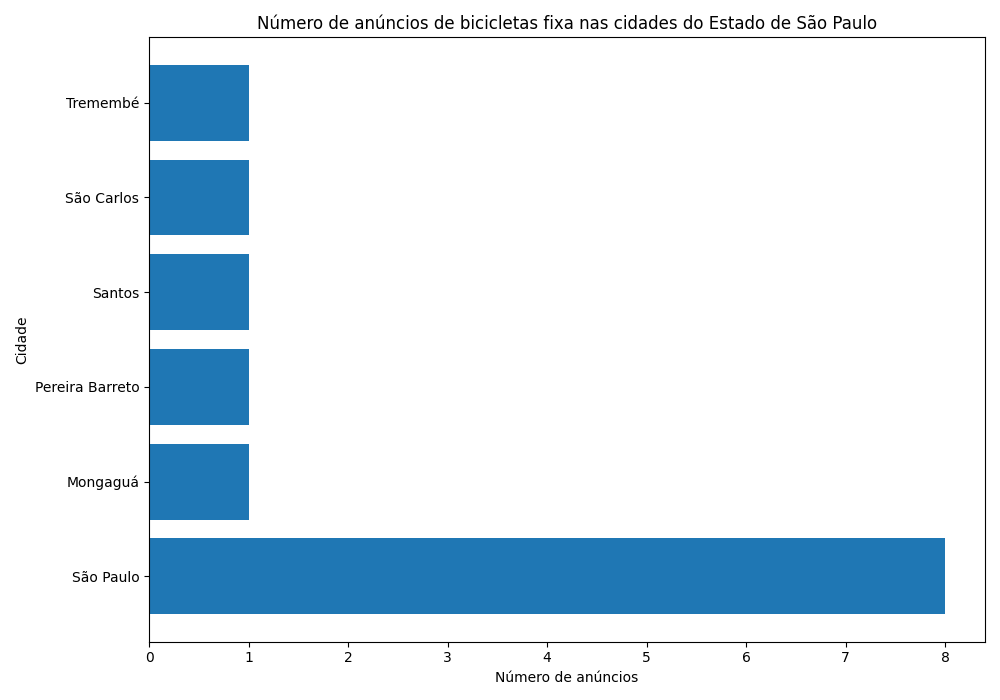
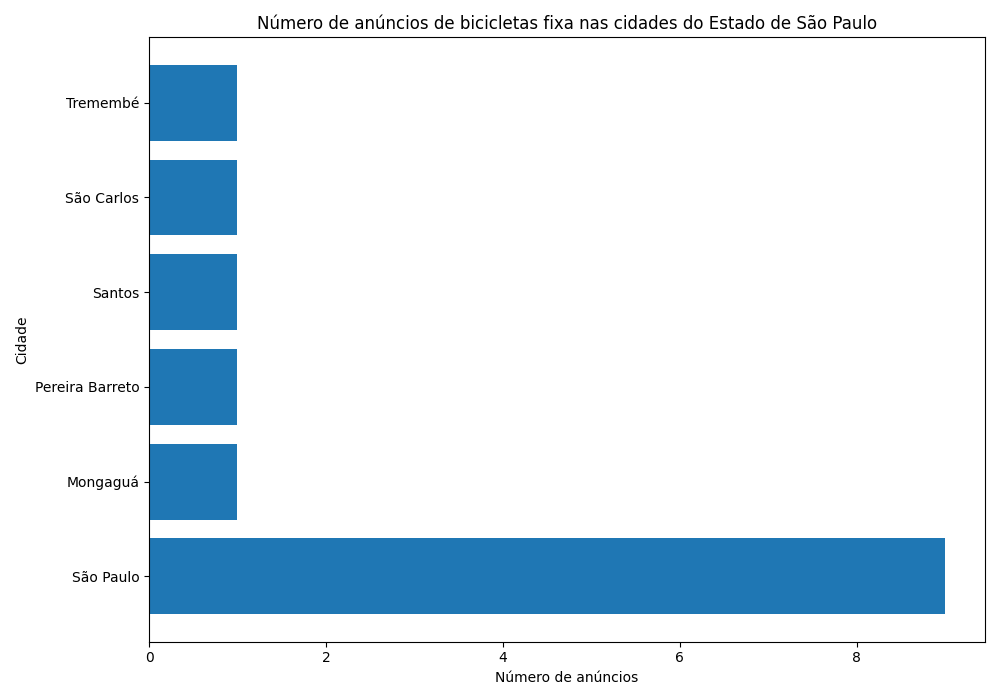
update readme and analysis names

diff --git a/analysis_bikes.py b/analysis_bikes.py
@@ -32,7 +32,7 @@ def related_res(data, name, related_words):
 
     data.reset_index(inplace=True,drop=True)
     
-    data.to_csv(f'{name.split(".")[0]}_clean.csv')
+    data.to_csv('{}'.format(name.replace(".csv",'_clean.csv')))
     
     return data
 
@@ -46,7 +46,6 @@ related_words = ['bike fixa','las magrelas', 'raf','raf bike','sprinter','8bike'
 data_clean = related_res(data, name, related_words)
 
 data_clean['valueBike'] = pd.to_numeric(data_clean['valueBike'].values)
-print(data_clean.loc[:15,['valueBike']])
 
 # # metrics
 metrica = plt.boxplot(data_clean['valueBike'])
@@ -61,7 +60,7 @@ means = dataK.groupby('city').mean().sort_values('valueBike',ascending=False)['v
 Lower_mean_ads = dataK.sort_values('valueBike',ascending=False)
 ads = Lower_mean_ads[Lower_mean_ads['valueBike'].values < means.mean()]
 ads_mkdw = ads.loc[:,['dayPost', 'nameBike', 'city','valueBike','urlBike']]
-ads_mkdw.to_markdown(f'{name.split(".")[0]}.md',index=False)
+ads_mkdw.to_markdown('{}'.format(name.replace(".csv",'.md')),index=False)
 
 counts_anuncios = dataK.groupby('city').count().sort_values('valueBike',ascending=False)['valueBike']
 

diff --git a/scrap_olx_bike_v1_1.py b/scrap_olx_bike_v1_1.py
@@ -126,7 +126,7 @@ class scrap_olx_ads():
 
                             except:
 
-                                valueBike = np.nan
+                                valueBike = 0.0
 
                             try:
 

diff --git a/busca_bike_dados.md b/busca_bike_dados.md
@@ -1,9 +1,10 @@
-| dayPost   | nameBike                              | city      |   valueBike | urlBike                                                                                            |
-|:----------|:--------------------------------------|:----------|------------:|:---------------------------------------------------------------------------------------------------|
-| 31/05     | Bike fixa caixinha + brindes          | São Paulo |        1250 | https://sp.olx.com.br/sao-paulo-e-regiao/ciclismo/bike-fixa-caixinha-brindes-1039375901            |
-| 13/06     | Bike fixa Caloi 10 1979               | São Paulo |        1200 | https://sp.olx.com.br/sao-paulo-e-regiao/ciclismo/bike-fixa-caloi-10-1979-1042377433               |
-| 10/06     | Bike fixa                             | Tremembé  |        1200 | https://sp.olx.com.br/vale-do-paraiba-e-litoral-norte/ciclismo/bike-fixa-1043418146                |
-| 12/06     | Monark 10 Single Speed                | Santos    |        1000 | https://sp.olx.com.br/baixada-santista-e-litoral-sul/ciclismo/monark-10-single-speed-1044210535    |
-| 04/06     | Fixa / Single speed                   | São Paulo |         900 | https://sp.olx.com.br/sao-paulo-e-regiao/ciclismo/fixa-single-speed-1041263178                     |
-| 08/06     | Bike single speed. Roda livre 700.    | São Paulo |         800 | https://sp.olx.com.br/sao-paulo-e-regiao/ciclismo/bike-single-speed-roda-livre-700-1042723307      |
-| 30/05     | Coroa 54 dentes 130BCD para bike fixa | São Paulo |         100 | https://sp.olx.com.br/sao-paulo-e-regiao/ciclismo/coroa-54-dentes-130bcd-para-bike-fixa-1038727960 |
+| dayPost   | nameBike                               | city      |   valueBike | urlBike                                                                                             |
+|:----------|:---------------------------------------|:----------|------------:|:----------------------------------------------------------------------------------------------------|
+| 31/05     | Bike fixa caixinha + brindes           | São Paulo |        1250 | https://sp.olx.com.br/sao-paulo-e-regiao/ciclismo/bike-fixa-caixinha-brindes-1039375901             |
+| 13/06     | Bike fixa Caloi 10 1979                | São Paulo |        1200 | https://sp.olx.com.br/sao-paulo-e-regiao/ciclismo/bike-fixa-caloi-10-1979-1042377433                |
+| 10/06     | Bike fixa                              | Tremembé  |        1200 | https://sp.olx.com.br/vale-do-paraiba-e-litoral-norte/ciclismo/bike-fixa-1043418146                 |
+| 12/06     | Monark 10 Single Speed                 | Santos    |        1000 | https://sp.olx.com.br/baixada-santista-e-litoral-sul/ciclismo/monark-10-single-speed-1044210535     |
+| 04/06     | Fixa / Single speed                    | São Paulo |         900 | https://sp.olx.com.br/sao-paulo-e-regiao/ciclismo/fixa-single-speed-1041263178                      |
+| 08/06     | Bike single speed. Roda livre 700.     | São Paulo |         800 | https://sp.olx.com.br/sao-paulo-e-regiao/ciclismo/bike-single-speed-roda-livre-700-1042723307       |
+| 30/05     | Coroa 54 dentes 130BCD para bike fixa  | São Paulo |         100 | https://sp.olx.com.br/sao-paulo-e-regiao/ciclismo/coroa-54-dentes-130bcd-para-bike-fixa-1038727960  |
+| 01/06     | Peças para bicicleta Fixa speed single | São Paulo |          15 | https://sp.olx.com.br/sao-paulo-e-regiao/ciclismo/pecas-para-bicicleta-fixa-speed-single-1039596916 |
